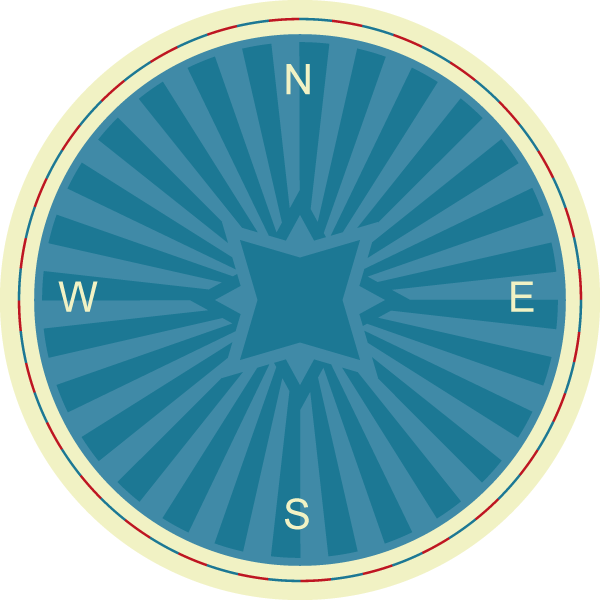
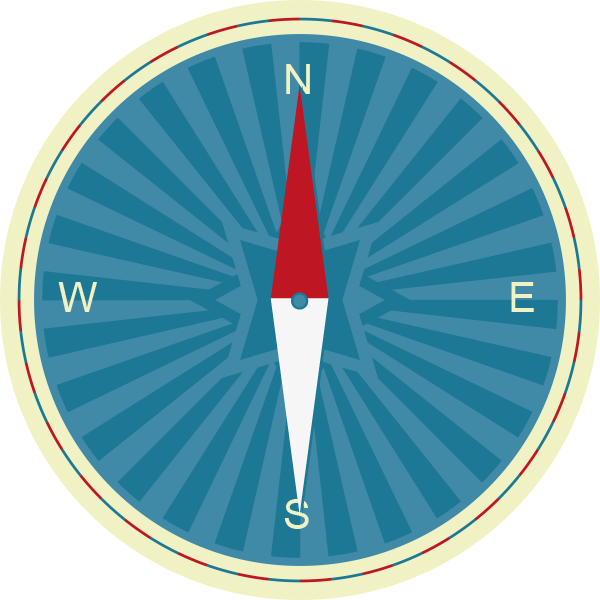
Move ReactHeading to Saga

Changed region(s): [[0.45, 0.12, 0.57, 0.9], [0.12, 0.48, 0.15, 0.51]]

diff --git a/App/Containers/Compass.js b/App/Containers/Compass.js
@@ -1,55 +1,58 @@
 import React, { PureComponent } from 'react'
-import { View, Image, Animated, Easing, DeviceEventEmitter } from 'react-native'
+import { View, Image, Text, Animated, Easing, DeviceEventEmitter } from 'react-native'
 import { connect } from 'react-redux'
 import { bindActionCreators } from 'redux'
 import { createStructuredSelector } from 'reselect'
+import Icon from 'react-native-vector-icons/dist/MaterialIcons'
 import RoundedButton from '../Components/RoundedButton';
 import { Colors } from '../Themes'
+
+import { selectDirection } from '../Selectors/CompassSelectors'
 
 import styles from './Styles/Compass'
 import Images from '../Themes/Images'
 
 
 class Compass extends PureComponent {
-  state = {
-    rotation: new Animated.Value(0),
-  };
+  constructor(props) {
+    super(props);
 
-  componentDidMount() {
-    DeviceEventEmitter.addListener('headingUpdated', data => {
+    this.state = {
+      rotation: new Animated.Value(props.direction),
+    }
+  }
+
+  componentWillReceiveProps(newProps) {
+    if (this.props.direction !== newProps.direction) {
       Animated.timing(
         this.state.rotation,
         {
-          toValue: data,
+          toValue: newProps.direction,
           easing: Easing.ease,
           duration: 10
         }
       ).start();
-    });
-  }
-
-  componentWillUnmount() {
-    DeviceEventEmitter.removeAllListeners('headingUpdated');
+    }
   }
 
   render () {
     const spin = this.state.rotation.interpolate({
       inputRange: [0, 360],
-      outputRange: ['0deg', '360deg']
+      outputRange: ['0deg', '-360deg']
     });
 
     return (
       <View style={styles.container}>
-        <View>
-          <Image
-            style={styles.compassImage}
-            source={Images.compass}
-          />
-          <Animated.Image
-            style={[styles.arrowImage, { transform: [{rotate: spin}] }]}
-            source={Images.compassArrow}
-          />
-        </View>
+        <Text style={styles.text}>Direction: {this.props.direction}</Text>
+        <Icon
+          name="arrow-drop-down"
+          size={100}
+          color={Colors.aqua}
+        />
+        <Animated.Image
+          style={[styles.compassImage, { transform: [{rotate: spin}] }]}
+          source={Images.compass}
+        />
         <RoundedButton
           icon='arrow-back'
           color={Colors.white}
@@ -64,10 +67,10 @@ class Compass extends PureComponent {
 }
 
 const mapStateToProps = createStructuredSelector({
+  direction: selectDirection,
 })
 
 const mapDispatchToProps = (dispatch) => bindActionCreators({
-
 }, dispatch)
 
 export default connect(mapStateToProps, mapDispatchToProps)(Compass)

diff --git a/App/Containers/Main.js b/App/Containers/Main.js
@@ -2,11 +2,10 @@ import React, { PureComponent } from 'react'
 import { connect } from 'react-redux'
 import { createStructuredSelector } from 'reselect'
 import { bindActionCreators } from 'redux'
-import { View, Animated, TouchableOpacity, Easing, DeviceEventEmitter } from 'react-native'
+import { View, Animated, TouchableOpacity, Easing } from 'react-native'
 import { TabViewAnimated, SceneMap } from 'react-native-tab-view'
 import Icon from 'react-native-vector-icons/dist/MaterialIcons'
 import { ifElse, equals, always, not } from 'ramda'
-import ReactNativeHeading from 'react-native-heading'
 
 import styles from './Styles/Main'
 import { Metrics, Colors } from '../Themes'
@@ -15,7 +14,8 @@ import Places from './Places'
 import SlidesNavigation from '../Components/SlidesNavigation'
 import Menu from '../Components/Menu'
 import MainActions from '../Redux/MainRedux'
-import { selectTabIndex, selectHeadingSupport } from '../Selectors/MainSelectors'
+import { selectTabIndex } from '../Selectors/MainSelectors'
+import { selectIsSupported } from '../Selectors/CompassSelectors'
 
 const AnimatedIcon = Animated.createAnimatedComponent(Icon);
 const hiddenMenuTranslate = Metrics.screenHeight / 3;
@@ -35,23 +35,11 @@ export class Main extends PureComponent {
     tabViewPosition: new Animated.Value(0)
   }
 
-  componentDidMount() {
-    ReactNativeHeading.start(1).then(ifElse(
-      equals(true),
-      this.props.setHeadingSupport,
-      always(null)
-    ));
-  }
-
-  componentWillUnmount() {
-    ReactNativeHeading.stop();
-  }
-
   menuVisible = true
 
   renderScene = () => SceneMap({
     [MENU_TAB_KEY]: () => (
-      <Menu navigate={this.props.navigation.navigate} isHeadingSupported={this.props.isHeadingSupported} />
+      <Menu navigate={this.props.navigation.navigate} isCompassSupported={this.props.isCompassSupported} />
     ),
     [PLACES_TAB_KEY]: Places,
   })
@@ -131,12 +119,11 @@ export class Main extends PureComponent {
 
 const mapStateToProps = createStructuredSelector({
   index: selectTabIndex,
-  isHeadingSupported: selectHeadingSupport,
+  isCompassSupported: selectIsSupported,
 })
 
 const mapDispatchToProps = (dispatch) => bindActionCreators({
   changeTabIndex: MainActions.changeTabIndex,
-  setHeadingSupport: MainActions.setHeadingSupport,
 }, dispatch)
 
 export default connect(mapStateToProps, mapDispatchToProps)(Main)

diff --git a/App/Sagas/index.js b/App/Sagas/index.js
@@ -6,6 +6,7 @@ import { StartupTypes } from '../Redux/StartupRedux'
 import { PlacesTypes } from '../Redux/PlacesRedux'
 import { MapTypes } from '../Redux/MapRedux'
 import { GeolocationTypes } from '../Redux/GeolocationRedux'
+import { CompassTypes } from '../Redux/CompassRedux'
 import { CameraTypes } from '../Redux/CameraRedux'
 
 /* ------------- Sagas ------------- */
@@ -14,6 +15,7 @@ import { startup } from './StartupSagas'
 import { request as placesRequest } from './PlacesSagas'
 import { changeRegion } from './MapSagas'
 import { startWatchingPosition, getCurrentPosition } from './GeolocationSagas'
+import { initialize, startWatchingDirection } from './CompassSagas'
 import { imageSearchRequest } from './CameraSagas'
 
 /* ------------- Connect Types To Sagas ------------- */
@@ -25,6 +27,8 @@ export default function * root () {
     takeLatest(MapTypes.CHANGE_REGION, changeRegion),
     takeLatest(GeolocationTypes.GET_CURRENT_POSITION, getCurrentPosition),
     takeLatest(GeolocationTypes.START_WATCHING_POSITION, startWatchingPosition),
+    takeLatest(CompassTypes.INITIALIZE, initialize),
+    takeLatest(CompassTypes.START_WATCHING_DIRECTION, startWatchingDirection),
     takeLatest(CameraTypes.IMAGE_SEARCH_REQUEST, imageSearchRequest)
   ])
 }

diff --git a/App/Sagas/CompassSagas.js b/App/Sagas/CompassSagas.js
@@ -1,0 +1,36 @@
+import { put, take, call } from 'redux-saga/effects'
+import { eventChannel } from 'redux-saga'
+import ReactNativeHeading from 'react-native-heading'
+import { DeviceEventEmitter } from 'react-native'
+
+import CompassActions from '../Redux/CompassRedux'
+
+
+export function * initialize () {
+  try {
+    const isHeadingSupported = yield call(ReactNativeHeading.start, 1);
+    if (isHeadingSupported) {
+      yield put(CompassActions.setIsSupported());
+      yield put(CompassActions.startWatchingDirection());
+    }
+  } catch (error) {
+    console.log(error)
+  }
+}
+
+export function * startWatchingDirection () {
+  try {
+    const channel = yield eventChannel(emitter => {
+      DeviceEventEmitter.addListener('headingUpdated', (data) => emitter(data));
+      return () => DeviceEventEmitter.removeAllListeners('headingUpdated');
+    });
+
+    while (true) { //eslint-disable-line
+      const direction = yield take(channel)
+
+      yield put(CompassActions.changeDirection(direction))
+    }
+  } catch (error) {
+    console.log(error)
+  }
+}

diff --git a/App/Redux/MainRedux.js b/App/Redux/MainRedux.js
@@ -2,25 +2,20 @@ import { createReducer, createActions } from 'reduxsauce'
 import Immutable from 'seamless-immutable'
 
 const { Types, Creators } = createActions({
-  changeTabIndex: ['index'],
-  setHeadingSupport: null,
+  changeTabIndex: ['index']
 }, { prefix: 'MAIN_' })
 
 export const MainTypes = Types
 export default Creators
 
 export const INITIAL_STATE = Immutable({
-  tabIndex: 0,
-  isHeadingSupported: false,
+  tabIndex: 0
 })
 
 export const changeTabIndex = (state, { index }) => state
   .set('tabIndex', index)
 
-export const setHeadingSupport = (state) => state
-  .set('isHeadingSupported', true)
 
 export const reducer = createReducer(INITIAL_STATE, {
-  [Types.CHANGE_TAB_INDEX]: changeTabIndex,
-  [Types.SET_HEADING_SUPPORT]: setHeadingSupport
+  [Types.CHANGE_TAB_INDEX]: changeTabIndex
 })

diff --git a/App/Redux/CompassRedux.js b/App/Redux/CompassRedux.js
@@ -1,0 +1,28 @@
+import { createReducer, createActions } from 'reduxsauce'
+import Immutable from 'seamless-immutable'
+
+const { Types, Creators } = createActions({
+  initialize: [],
+  startWatchingDirection: [],
+  setIsSupported: [],
+  changeDirection: ['direction'],
+}, { prefix: 'COMPASS_' })
+
+export const CompassTypes = Types
+export default Creators
+
+export const INITIAL_STATE = Immutable({
+  direction: 0,
+  isSupported: false,
+})
+
+export const changeDirection = (state, { direction }) => state
+  .set('direction', direction)
+
+export const setIsSupported = (state) => state
+  .set('isSupported', true)
+
+export const reducer = createReducer(INITIAL_STATE, {
+  [Types.CHANGE_DIRECTION]: changeDirection,
+  [Types.SET_IS_SUPPORTED]: setIsSupported,
+})

diff --git a/App/Redux/ScreenTrackingMiddleware.js b/App/Redux/ScreenTrackingMiddleware.js
@@ -25,12 +25,12 @@ const screenTracking = ({ getState }) => next => (action) => {
   const result = next(action)
   const nextScreen = getCurrentRouteName(getState().nav)
   if (nextScreen !== currentScreen) {
-    // try {
-    //   console.tron.log(`NAVIGATING ${currentScreen} to ${nextScreen}`)
-    //   // Example: Analytics.trackEvent('user_navigation', {currentScreen, nextScreen})
-    // } catch (e) {
-    //   console.tron.log(e)
-    // }
+    try {
+      console.tron.log(`NAVIGATING ${currentScreen} to ${nextScreen}`)
+      // Example: Analytics.trackEvent('user_navigation', {currentScreen, nextScreen})
+    } catch (e) {
+      console.log(e)
+    }
   }
   return result
 }

diff --git a/App/Redux/index.js b/App/Redux/index.js
@@ -6,6 +6,7 @@ import { reducer as map } from './MapRedux'
 import { reducer as places } from './PlacesRedux'
 import { reducer as geolocation } from './GeolocationRedux'
 import { reducer as camera } from './CameraRedux'
+import { reducer as compass } from './CompassRedux'
 
 export default () => {
   /* ------------- Assemble The Reducers ------------- */
@@ -15,7 +16,8 @@ export default () => {
     map,
     places,
     geolocation,
-    camera
+    camera,
+    compass
   })
 
   return configureStore(rootReducer, rootSaga)

diff --git a/App/Containers/Styles/Compass.js b/App/Containers/Styles/Compass.js
@@ -8,6 +8,9 @@ export default StyleSheet.create({
     alignItems: 'center',
     justifyContent: 'center'
   },
+  text: {
+    fontSize: 20,
+  },
   backButton: {
     backgroundColor: Colors.aqua,
     position: 'absolute',
@@ -19,11 +22,4 @@ export default StyleSheet.create({
     width: 380,
     height: 380,
   },
-  arrowImage: {
-    width: 380,
-    height: 380,
-    position: 'absolute',
-    left: 0,
-    right: 0,
-  }
 })

diff --git a/App/Sagas/StartupSagas.js b/App/Sagas/StartupSagas.js
@@ -1,10 +1,12 @@
 import { put } from 'redux-saga/effects'
 import GeolocationActions from '../Redux/GeolocationRedux'
+import CompassActions from '../Redux/CompassRedux'
 
 export function * startup () {
   try {
     yield put(GeolocationActions.getCurrentPosition())
     yield put(GeolocationActions.startWatchingPosition())
+    yield put(CompassActions.initialize())
   } catch (error) {
     console.log(error);
   }

diff --git a/App/Components/Menu.js b/App/Components/Menu.js
@@ -13,7 +13,7 @@ export default class Menu extends PureComponent {
           <MenuItem icon='lightbulb-outline' color={Colors.yellow} />
           <MenuItem
             icon='explore'
-            disabled={!this.props.isHeadingSupported}
+            disabled={!this.props.isCompassSupported}
             color={Colors.orange}
             onPress={() => this.props.navigate('Compass')}
           />

diff --git a/App/Selectors/CompassSelectors.js b/App/Selectors/CompassSelectors.js
@@ -1,0 +1,15 @@
+import { createSelector } from 'reselect'
+import { prop } from 'ramda'
+
+const selectMain = prop('compass')
+
+export const selectDirection = createSelector(
+  selectMain,
+  prop('direction')
+)
+
+
+export const selectIsSupported = createSelector(
+  selectMain,
+  prop('isSupported')
+)
